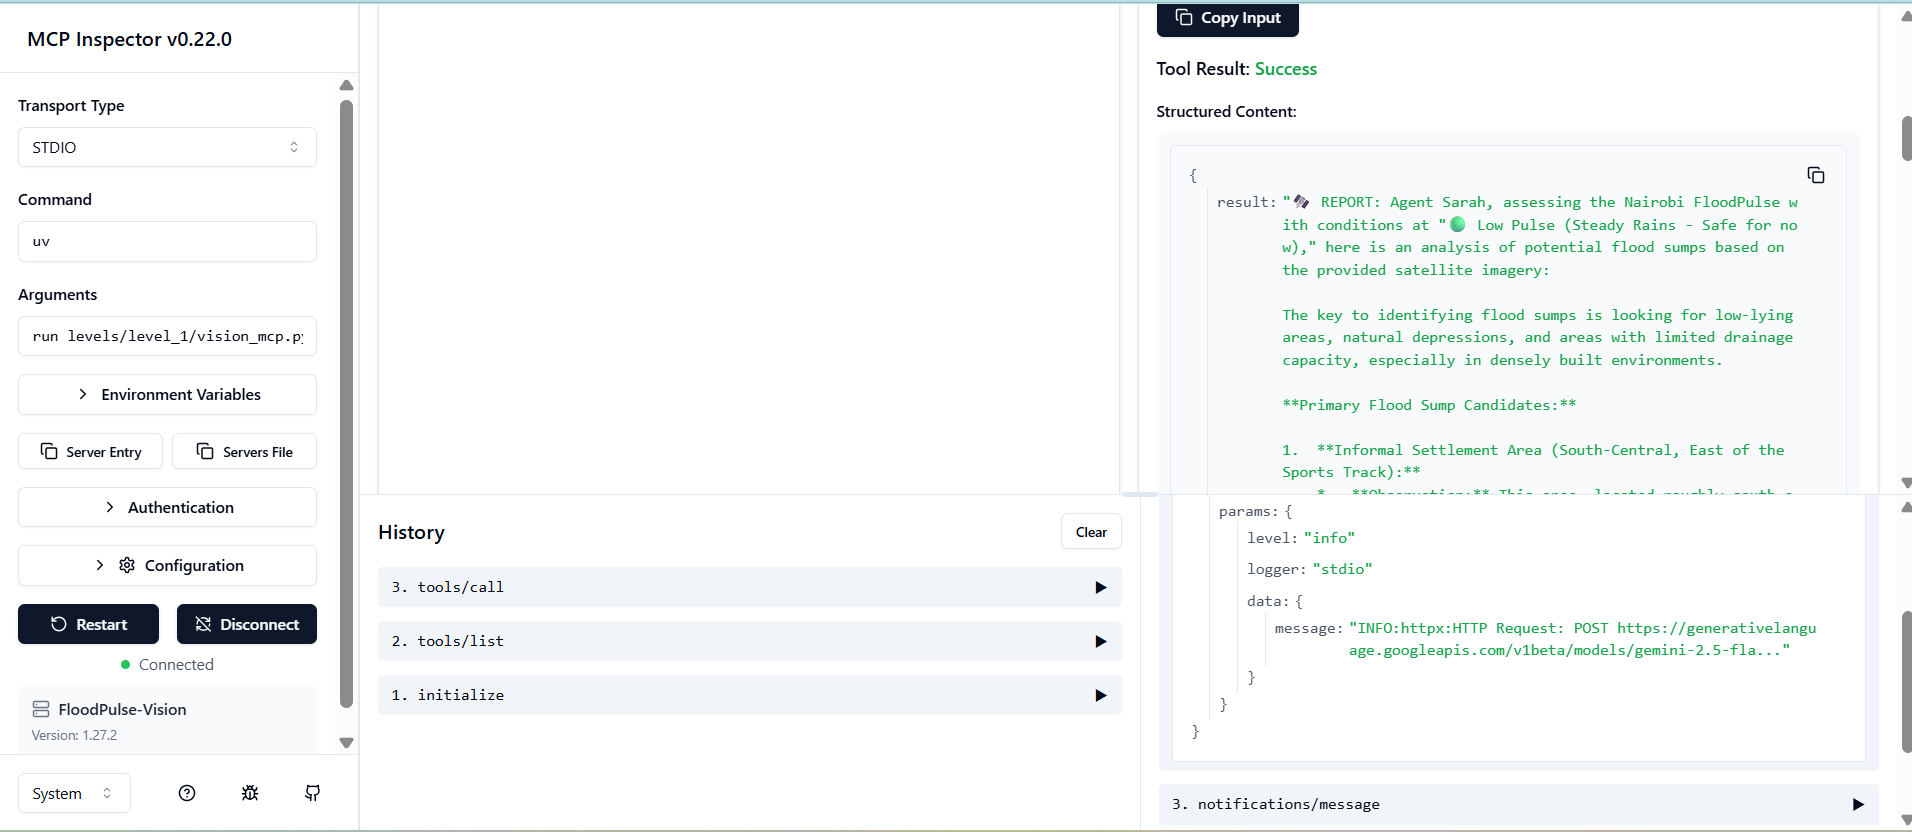
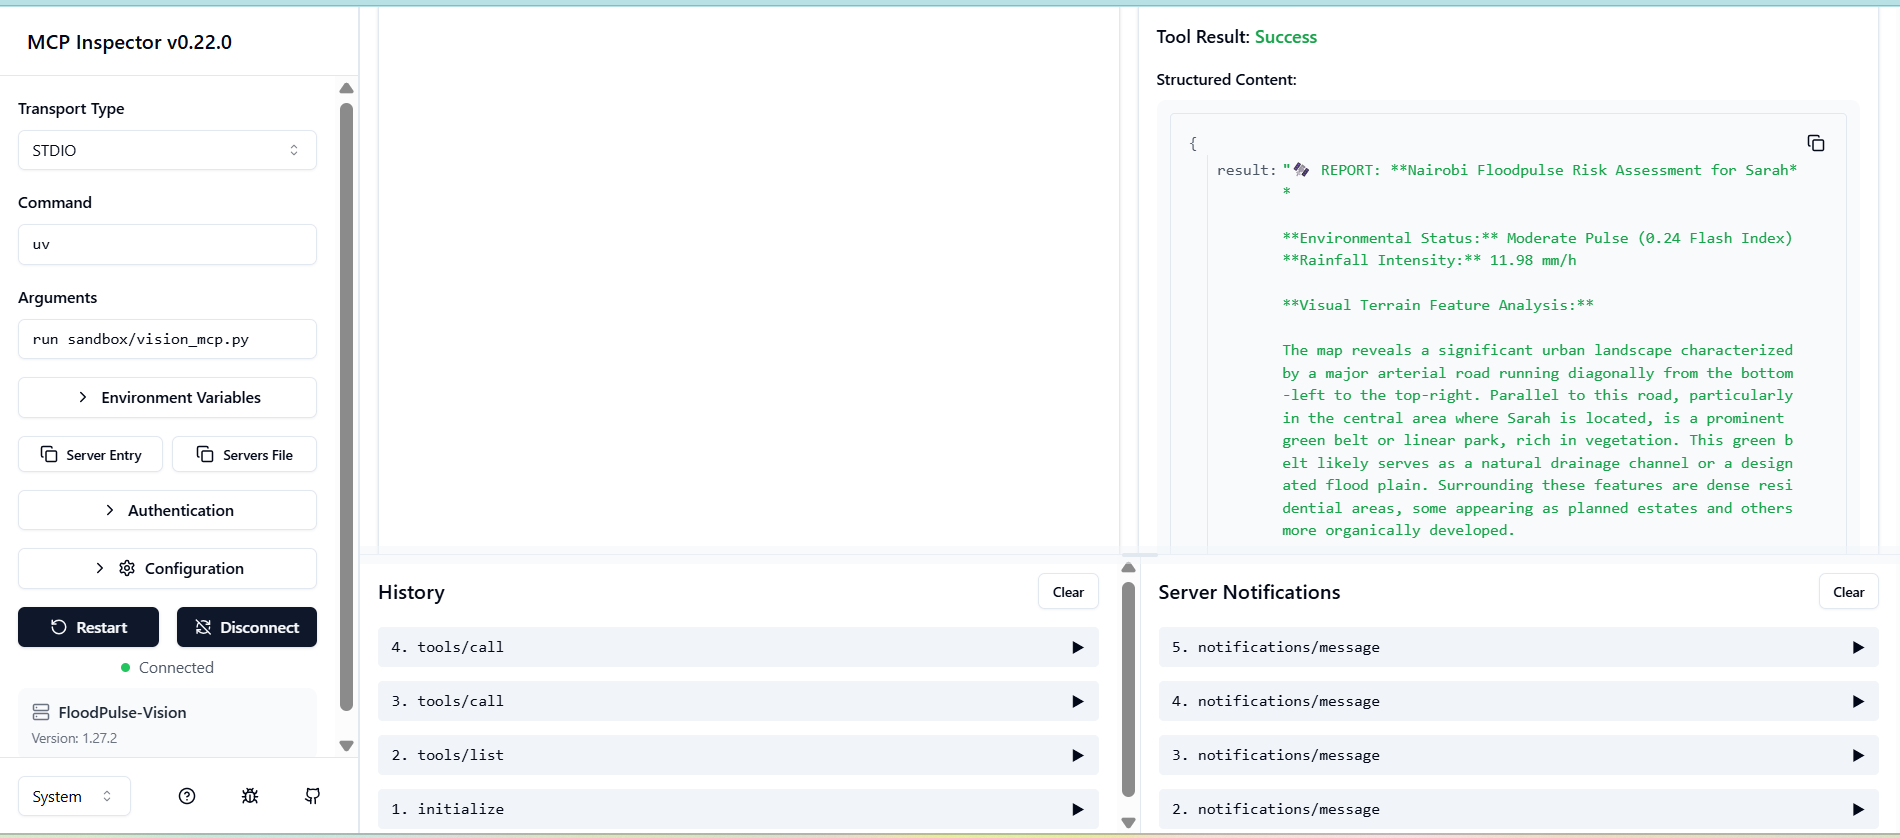
feat(sandbox): unify MCP vision auditor and finalize documentation

diff --git a/sandbox/vision_mcp.py b/sandbox/vision_mcp.py
@@ -1,24 +1,28 @@
 import os
 import sys
 import logging
+from pathlib import Path
 from mcp.server.fastmcp import FastMCP
 from google import genai
 from PIL import Image
 from dotenv import load_dotenv
 
+# --- PATH SHIELD & SYSTEM PATH SETUP ---
+# Identify the project root based on this file's location (sandbox/vision_mcp.py)
+# Moving up one level from sandbox/ to the project root
+SCRIPT_DIR = Path(__file__).resolve().parent
+PROJECT_ROOT = SCRIPT_DIR.parent
+
+# Ensure project root is at the very beginning of sys.path
+if str(PROJECT_ROOT) not in sys.path:
+    sys.path.insert(0, str(PROJECT_ROOT))
+
 # --- LOGGING SETUP ---
 logging.basicConfig(level=logging.INFO, stream=sys.stderr)
 logger = logging.getLogger("FloodPulse-Vision")
 
-## --- PATH SHIELD ---
-# Get the directory of this file (sandbox/)
-script_dir = os.path.dirname(os.path.abspath(__file__))
-# Move up ONE level to get to the project root
-PROJECT_ROOT = os.path.dirname(script_dir)
-sys.path.append(PROJECT_ROOT)
-
 # --- ENVIRONMENT LOADING ---
-dotenv_path = os.path.join(PROJECT_ROOT, ".env")
+dotenv_path = PROJECT_ROOT / ".env"
 load_dotenv(dotenv_path=dotenv_path, override=True)
 
 # --- CLIENT INITIALIZATION ---
@@ -30,27 +34,41 @@ if not api_key:
 mcp = FastMCP("FloodPulse-Vision")
 client = genai.Client(api_key=api_key)
 
+# --- TOOLS ---
 @mcp.tool()
 def analyze_mbagathi_risk(agent_name: str, lat: float, lon: float) -> str:
     """Fuses Terrain Map and Pulse Data to analyze flood risk."""
     
-    # Adjusted to look in the correct levels folder structure
-    map_path = os.path.join(PROJECT_ROOT, "levels", "level_1", "assets", "maps", f"{agent_name}_mission_map.png")
+    # Path to the asset - now resolved via PROJECT_ROOT
+    map_path = PROJECT_ROOT / "levels" / "level_1" / "assets" / "maps" / f"{agent_name}_mission_map.png"
 
-    if not os.path.exists(map_path):
+    if not map_path.exists():
         logger.error(f"Missing map file: {map_path}")
         return "Error: Mission map not found."
 
     try:
-        # UPDATED: Import from tools.weather_tools
-        from tools.weather_tools import get_nairobi_pulse
-        pulse = get_nairobi_pulse(agent_name, lat, lon)
+        # Absolute import now works because PROJECT_ROOT is in sys.path
+        from levels.level_1.tools.weather_tools import get_nairobi_pulse_tool
         
+        pulse = get_nairobi_pulse_tool(agent_name, lat, lon)
+        
+        # Check if the tool returned an error first
+        if "error" in pulse:
+            return f"Telemetry Unavailable: {pulse['error']}"
+                
         img = Image.open(map_path)
         
+        # Constructing the high-fidelity risk assessment prompt
         prompt_text = (
-            f"Nairobi FloodPulse. Agent: {agent_name}. Conditions: {pulse['status']}. "
-            "Analyze the terrain for potential flood sumps based on this map."
+            f"--- NAIROBI FLOODPULSE RISK ASSESSMENT ---\n"
+            f"Target Agent: {agent_name}\n"
+            f"Environmental Status: {pulse['status']} ({pulse['flash_index']} Flash Index)\n"
+            f"Rainfall Intensity: {pulse['rain_mm_h']} mm/h\n"
+            f"Task: Analyze the visual terrain features of this map to identify "
+            f"vulnerable sumps and high-risk bottlenecks. Given the current "
+            f"{pulse['status']}, evaluate the likelihood of immediate arterial "
+            f"flooding at these coordinates. Provide a 'Safety Rating' (0-100) and "
+            f"a list of recommended high-ground evacuation routes visible in the map."
         )
 
         response = client.models.generate_content(
@@ -60,6 +78,9 @@ def analyze_mbagathi_risk(agent_name: str, lat: float, lon: float) -> str:
         
         return f"🛰 REPORT: {response.text}"
 
+    except ImportError as ie:
+        logger.exception("Failed to import tool modules")
+        return f"Import Error: {str(ie)}"
     except Exception as e:
         logger.exception("Fusion process failed")
         return f"Internal Fusion Error: {str(e)}"

diff --git a/docs/PRD.md b/docs/PRD.md
@@ -7,22 +7,22 @@ Existing navigation tools in Nairobi rely on static road data and active interne
 ## 2. Goals & Objectives
 - **Goal:** Reduce transit-related flood fatalities by 50% in pilot areas.
 - **Objective:** Deploy a multimodal agentic pipeline capable of identifying flood boundaries and safe transit paths.
-- **Strategic Metric:** Maintain high-fidelity spatial reasoning via Gemini 2.5/3.5 and orchestrate reliable navigation directives through modular, ADK-driven sequential agentic pipelines.
+- **Strategic Metric:** Maintain high-fidelity spatial reasoning via `Gemini 2.5/3.5` and orchestrate reliable navigation directives through modular, ADK-driven sequential agentic pipelines.
 
 ## 3. System Architecture
 FloodPulse utilizes a Modular Agentic Simulation pattern, evolving from static identity creation (Level 0) into a real-time Production Studio (Level 1) for agentic assets.
 
 - **Level 0 (The Gallery):** A persistent registry for personas (Sarah, Juma, Kamau) and finalized mission assets.
-- **The Sandbox (Lab/Validation):** An isolated, ephemeral environment used for Model Context Protocol (MCP) tool-calling validation, ADC-based authentication testing, and diagnostic reporting.
 - **Level 1 (The Studio):** The core Agentic Synthesis engine. It uses the **Google Agent Development Kit (ADK)** to orchestrate specialized sub-agents (Vision Analyst, Weather Gatherer) through a sequential delegation loop, ensuring atomic state management and session-scoped reliability. The core engine utilizes an Agentic Resilience Layer (`utils.py` and `genai_retry` logic) to manage API fluctuations and quota constraints. State is managed through an explicit **Context-Setter Pattern**, requiring the Orchestrator to validate and persist mission parameters before task delegation.
+- **The Sandbox (Lab/Validation):** An isolated, ephemeral environment used for Model Context Protocol (MCP) tool-calling validation, ADC-based authentication testing, and diagnostic reporting.
 - **Level 2 Graph Orchestration:** Google Cloud Spanner backbone for persistent node-based navigation.
 
 ### 3.1 Evolutionary Roadmap
 | Phase | Milestone | Status |
 |-------------|--------|--------------|
 | **Level 0** | Identity Factory: Parametric persona generation| ✅ Done |
-| **Sandbox** | MCP Lab: Secure Vision/Tool Diagnostics | ✅ Done |
 | **Level 1** | The Studio: ADK Sequential Agentic Synthesis | ✅ Done |
+| **Sandbox** | MCP Lab: Secure Vision/Tool Diagnostics | ✅ Done |
 | **Level 2** | Graph Orchestration: Spanner/GQL Navigation | 🟡 Ongoing |
 | **Edge** | Android 17 Parity: Local Gemma 4 inference | 🔜 Planned |
 
@@ -32,25 +32,26 @@ FloodPulse utilizes a Modular Agentic Simulation pattern, evolving from static i
 - Logic: Implemented `create_identity.py` and `generator.py` using an Orchestrator/Worker pattern.
 - Output: Consistent visual assets stored in `level_0/outputs/.`
 
-### 4.2 The Sandbox (Completed)
-- **Purpose:** To serve as a hardened proving ground for all Tool/Agent interactions.
-- **FR1 (Protocol Verification):** All new spatial reasoning tools must be validated against the MCP Inspector at port 6274 before being merged into the Studio.
-- **FR2 (Authentication Hardening):** Ensures all production-path tools are compatible with **Application Default Credentials (ADC)**, providing a secure alternative to legacy API key management.
-- **FR3 (Artifact Logging):** Every successful diagnostic session must generate a documentation record in `sandbox/notes.md.` to maintain a historical "truth" of tool performance.
-- **FR4 (Path Shielding):** Implementation of dynamic `PROJECT_ROOT` resolution in all sandbox scripts to prevent file-system corruption or duplicate directory nesting (`levels/levels/...`).
 
-### 4.3 Level 1: The Studio (Completed)
-- **FR5 (Sequential Orchestration):** The `FloodPulseStudio` uses `SequentialAgent` logic to map user intent to a precise, context-aware execution flow.
-- **FR6 (Telemetry-Aware Synthesis):** The orchestrator pulls real-time environmental telemetry (Weather) and terrain data (Vision) to generate a unified mission risk assessment.
-- **FR7 (Artifact Promotion):** Automated pipeline moves validated assets from /level_0/outputs to the public /level_1/assets registry.
-- **FR8 (Memory Injection):** Contextual injection of persona metadata (Level 0) into `callback_context` to ensure agents are "Persona-Aware."
-- **FR9 (Interaction):** Interactive discovery phase where the root agent greets the user and determines mission parameters before synthesizing assets.
-- **FR10 (Idempotency):** The ADK `InMemorySessionService` tracks invocation_ids to ensure atomic tool execution and cost-efficient API usage.
-- **FR11 (Resilience Integration):** All external tool calls are wrapped in `http/gen_ai_retry` (exponential backoff with jitter) to mitigate `429 RESOURCE_EXHAUSTED` and `503 UNAVAILABLE errors`.
-- **FR12 (Context-Setter Gatekeeper):** The Orchestrator forces an `update_mission_context` execution for every session, transforming raw user input into a persistent `session.state` that fuels downstream domain sub-agents.
-- **FR13 (Root-Level Utility Infrastructure):** Migration of shared utility logic to the root `/utils.py` module to ensure consistent package namespace resolution and eliminate `ImportError` regressions.
+### 4.2 Level 1: The Studio (Completed)
+- **FR1 (Sequential Orchestration):** The `FloodPulseStudio` uses `SequentialAgent` logic to map user intent to a precise, context-aware execution flow.
+- **FR2 (Telemetry-Aware Synthesis):** The orchestrator pulls real-time environmental telemetry (Weather) and terrain data (Vision) to generate a unified mission risk assessment.
+- **FR3 (Artifact Promotion):** Automated pipeline moves validated assets from /level_0/outputs to the public `/level_1/assets` registry.
+- **FR4 (Memory Injection):** Contextual injection of persona metadata (Level 0) into `callback_context` to ensure agents are "Persona-Aware."
+- **FR5 (Interaction):** Interactive discovery phase where the root agent greets the user and determines mission parameters before synthesizing assets.
+- **FR6 (Idempotency):** The ADK `InMemorySessionService` tracks invocation_ids to ensure atomic tool execution and cost-efficient API usage.
+- **FR7 (Resilience Integration):** All external tool calls are wrapped in `http/gen_ai_retry` (exponential backoff with jitter) to mitigate `429 RESOURCE_EXHAUSTED` and `503 UNAVAILABLE errors`.
+- **FR8 (Context-Setter Gatekeeper):** The Orchestrator forces an `update_mission_context` execution for every session, transforming raw user input into a persistent `session.state` that fuels downstream domain sub-agents.
+- **FR9 (Root-Level Utility Infrastructure):** Migration of shared utility logic to the root `/utils.py` module to ensure consistent package namespace resolution and eliminate `ImportError` regressions.
 
-### 4.3 Graph Orchestration (Ongoing)
+### 4.3 The Sandbox (Completed)
+- **Purpose:** To serve as an independent validation layer for post-mission audit and high-fidelity quality control.
+- **FR10 (Audit Verification):** The Sandbox acts as an independent auditor; tools must be verified to function within the post-execution pipeline, validating assets generated by Level 1 (Studio) against mission baselines.
+- **FR11 (Dual-Mode Authentication):** All tools must support both **Application Default Credentials (ADC)** for enterprise-grade production and **API Keys** for rapid local prototyping, toggled via `.env` configurations.
+- **FR12 (Diagnostic Integrity):** Every audit session must document findings in `sandbox/notes.md` to maintain a historical "truth" of mission performance and tool reliability.
+- **FR13 (Path Resilience):** Implementation of hierarchical `PROJECT_ROOT` resolution to ensure absolute path consistency across all diagnostic and production modules, preventing cross-environment directory corruption.
+
+### 4.4 Graph Orchestration (Ongoing)
 - **FR14: Persistent State:** The system utilizes **Google Cloud Spanner** (Instance: survivor-network) to store the Trinity (Sarah, Juma, Kamau) as living graph nodes. (✅ Implemented via `spanner_init.py`)
 - **FR15: Relational Intelligence:** Implemented `FloodResilienceGraph` with ConnectedTo edges to map emergency lifelines between residents and responders. (✅ Implemented)
 - **FR16: Data Integrity:** System supports Idempotent Initialization and "Smart Repair" logic to ensure infrastructure stability in unstable connectivity environments. (✅ Implemented)
@@ -58,19 +59,19 @@ FloodPulse utilizes a Modular Agentic Simulation pattern, evolving from static i
 
 ## 5. Non-Functional Requirements (NFR)
 - **Latency:** Inference for terrain risk analysis must be < 2 seconds.
-- **Sandbox Isolation:** The Sandbox environment must remain ephemeral; no persistent registry or database writes should occur within the sandbox during diagnostic runs.
-- **Pipe Integrity:** Background telemetry redirected to `stderr` to preserve MCP JSON-RPC stream integrity.
-- **Diagnostic Transparency:** All tool-calling errors in the sandbox must be captured as logs and, where possible, visual artifacts (screenshots/maps) for PRD compliance.
 - **Credit Awareness:** All LLM calls gated by idempotent checks to minimize API spend.
 - **State Management:** ADK-based session management maintains context
 - **Quota Awareness:** The system must implement "Cache-Before-Call" logic for all geospatial assets, checking local `/assets/` directories for existing files before invoking remote API endpoints to conserve the 20-request/day free-tier quota.
+- **Sandbox Isolation:** The Sandbox environment must remain ephemeral; no persistent registry or database writes should occur within the sandbox during diagnostic runs.
+- **Pipe Integrity:** Background telemetry redirected to `stderr` to preserve MCP JSON-RPC stream integrity.
+- **Diagnostic Transparency:** All tool-calling errors in the sandbox must be captured as logs and, where possible, visual artifacts (screenshots/maps) for PRD compliance.
 - **Edge Readiness:** Architecture maintains modularity to support future porting to Android 17 on-device AppFunctions using Gemma 4
 - **Model Portability:** All Agentic Logic must be abstracted from the model backend to allow seamless switching between `Gemini-2.5-Flash` (Cloud) and `Gemma-4` (On-Device) via the `google-genai` interface.
 
 ## 6. Technical Validation: "The Mbagathi Truth"
 - **Baseline:** Validated spatial reasoning for topographical analysis (`Gemma 4 (31B)` , `Gemini-2.5-Flash`, `Gemini-3.5-Flash`).
-- **MCP Diagnostics:** Validated tool-calling reliability via the MCP Inspector, ensuring our agents can "see" map assets locally even when cloud-disconnected.
 - **Safe Ridge Logic:** The model autonomously identifies high-ground zones based on spectral terrain analysis (elevation vs. drainage).
+- **MCP Diagnostics:** Validated tool-calling reliability via the MCP Inspector, ensuring our agents can "see" map assets locally even when cloud-disconnected.
 - **Graph Verification:** Confirmed directed pathing from Sarah (Resident) at high-risk sump coordinates to Juma (Responder).
 
 Note: The system architecture visualization is now tracked below ![FloodPulse Studio Workflow](./level_1_workflow_viz.png)

diff --git a/README.md b/README.md
@@ -11,8 +11,8 @@
 
 We have transitioned from a multi-level sequential model to a unified Agentic Studio architecture.
 - **The Gallery (Level 0):** A persistent registry for personas (Sarah, Juma, Kamau) and finalized mission assets.
-- **The Sandbox:** Our experimental laboratory. This is where we stress-test new MCP tool-calling logic and authenticate secure connections via Application Default Credentials (ADC) before they graduate to the Studio.
 - **The Studio (Level 1 ):** The core Agentic Synthesis engine. It utilizes the **Google Agent Development Kit (ADK)** to orchestrate specialized sub-agents (Weather Gatherer, Vision Analyst) through a sequential delegation loop, ensuring atomic state management and session-scoped reliability.
+- **The Sandbox:** Our experimental laboratory and post-mission verification suite. This is where we stress-test new MCP tool-calling logic and authenticate secure connections via **Application Default Credentials (ADC)** or **API keys**. Once the Level 1 Studio establishes a mission baseline, the Sandbox tools perform independent Post-Mission Verification to ensure rigorous auditability and quality control before data is finalized.
 - **Graph Orchestration (Level 2)**: Google Cloud Spanner backbone for persistent node-based navigation.
 
 ### Visualizing the Workflow:
@@ -45,13 +45,13 @@ floodpulse-nairobi/
 | Phase | Milestone | Status |
 |-------------|--------|--------------|
 | **Level 0** | Identity Factory: Parametric persona generation| ✅ Done |
-| **Sandbox** | MCP Lab: Secure Vision/Tool Diagnostics | ✅ Done | 
 | **Level 1** | The Studio: Agentic Synthesis & Telemetry Integration | ✅ Done |
+| **Sandbox** | MCP Lab: Secure Vision/Tool Diagnostics | ✅ Done | 
 | **Level 2** | Graph Orchestration: Spanner/GQL Navigation | 🟡 Ongoing |
 | **Edge** | Android 17 Parity: Local Gemma 4 inference | 🔜 Planned |
 ---
 ## 🛡 Resilience & State Protocol
-- **Resilience Layer (`utils.p`y):** We use `@http/genai_retry` decorators across all API-bound tools (Maps, Weather, GenAI). They utilizes exponential backoff with jitter to gracefully recover from `429 (Resource Exhausted)` and `503 (Unavailable) errors`.
+- **Resilience Layer (`utils.py`):** We use `@http/genai_retry` decorators across all API-bound tools (Maps, Weather, GenAI). They utilizes exponential backoff with jitter to gracefully recover from `429 (Resource Exhausted)` and `503 (Unavailable) errors`.
 - **Context-Setter Pattern:** The Director agent uses the `update_mission_context` tool to persist mission parameters (Name, Lat, Lon) into `tool_context.session.state`. This ensures that downstream agents have reliable access to validated mission data.
 -**Asset Caching:** To preserve daily API quotas, all map and terrain assets are checked against the local `/assets/` directory before triggering remote API calls.
 ---
@@ -70,17 +70,20 @@ USE_VERTEX_AI=true
 PROJECT_ID=your-project-id
 LOCATION=us-central1
 ```
-3. **Authentication Protocol**
+3. **Authentication & Execution Modes**
 
-The system supports two execution modes via `config.py`:
+The system supports two execution modes via your `.env` configuration:
+
 - **Sandbox Mode (`USE_VERTEX_AI=false`):** Uses standard API keys. Ideal for rapid iteration, testing, and debugging.
 - **Studio Production Mode (`USE_VERTEX_AI=true`):** Uses **Application Default Credentials (ADC)**. This leverages your project's IAM identity for secure, enterprise-grade access.
-  - **Note:** Ensure you have authenticated locally via `gcloud auth application-default login` before running in Studio mode.
+  - *Requirement:* Ensure you have authenticated locally via `gcloud auth application-default login` before running in Studio mode.
     
 4. **Run Missions:** Execute from the root directory using the module flag:
 ```
 uv run python -m levels.level_1.agent
-adk web levels/level_1 
+adk web levels/level_1
+adk web --allow_origins "regex:https://.*\.cloudshell\.dev"
+PYTHONPATH=. adk web levels/level_1 --allow_origins "regex:https://.*\.cloudshell\.dev"
 ```
 ---
 ## 🎯 Technical Validation: "The Mbagathi Truth"

diff --git a/sandbox/README.md b/sandbox/README.md
@@ -7,26 +7,27 @@ This directory serves as the **experimental workspace** for the FloodPulse proje
 - **Lab Logging:** Documenting lessons learned, architecture discoveries, and troubleshooting notes.
 
 ## 📂 Contents
-- `adc_vision_mcp.py:` Production-aligned MCP server using Google Cloud Application Default Credentials (ADC).
-- `vision_mcp.py:` Experimental MCP server using standard API keys, ideal for rapid prototyping and bypassing project-specific model quotas.
+- `vision_mcp.py:` A unified MCP server that detects authentication mode via `.env` (`USE_VERTEX_AI=true/false`). Supports both rapid prototyping (API Key) and production-aligned (ADC) testing.
 - `notes.md:` A comprehensive lab log detailing experiment results, authentication struggles, port configurations (6274), and model availability findings.
 
 ## 🚀 Getting Started
 To interact with these tools, use the MCP Inspector:
+1. **Ensure your environment is set:**
+   Set `USE_VERTEX_AI=true` in your `.env` to use ADC, or `false` to use your API key.
 
-1. Install the Inspector:
+2. Install the Inspector:
 ```
 Bash
 npm install -g @modelcontextprotocol/inspector
 ```
-2. Launch a test rig:
+3. **Launch the test rig:**
+ ```bash
+ # Use PYTHONPATH to ensure the project modules are resolvable
+ PYTHONPATH=. npx @modelcontextprotocol/inspector uv run sandbox/vision_mcp.py
 ```
-Bash
-# Replace the file name with the rig you want to test
-npx @modelcontextprotocol/inspector uv run sandbox/adc_vision_mcp.py
-```
-3. Verify: Open the local dashboard at `http://localhost:6274` to execute tools and review responses.
+4. Verify: Open the local dashboard at `http://localhost:6274` to execute tools and review responses.
 
 ## 🛠 Operational Notes
-- **Path Resolution:** These scripts use dynamic pathing to locate the `PROJECT_ROOT.` Ensure your `config.json` is present in the root of the project for ADC scripts to function correctly.
+- **Authentication Logic:** The server automatically switches between Vertex AI (ADC) and API Key based on your `.env` configuration. Ensure `gcloud auth application-default login` is run locally if using ADC mode.
+- **Path Resolution:** These scripts use dynamic pathing to locate the `PROJECT_ROOT.` Ensure you are executing from the project root to maintain correct module resolution.
 - **Environment:** All successful tests recorded in `notes.md` were performed in a local VS Code environment. Remote cloud development environments (like Cloud Shell) may face tunneling restrictions with the Inspector.

diff --git a/sandbox/notes.md b/sandbox/notes.md
@@ -19,15 +19,14 @@ MCP is the bridge that transforms static environmental data into Actionable Inte
 ```
 
 ## 3. Authentication & Access Strategy
-We maintain two distinct paths for MCP experimentation to balance security with development flexibility. 
-	
+We have unified our MCP servers into a single `vision_mcp.py` file, utilizing a `.env` toggle (`USE_VERTEX_AI=true/false`) to switch between rapid-iteration and production-grade authentication.
 
-| Feature | Legacy API Key | Application Default Credentials (ADC) - Cloud |
+| Feature | API Key Mode | ADC Mode - Vertex AI |
 |-------------|--------|--------------|
-| **Primary Use** | Prototyping & Paid-tier access| Enterprise-grade production |
-| **Model Access** | Full access (including 3.5-Flash) | Restricted to project-level quota |
-| **Security** | Sensitive .env management | Secure, time-bound tokens |
-| **Environment** | Best for local quick-testing | Best for robust cloud integration |
+| **Primary Use** | Rapid Prototyping | Production/Studio Deployment |
+| **Authentication** | Direct `GOOGLE_API_KEY` | Managed via `gcloud` identity |
+| **Quota** | Account-level limits | Project-level (IAM) quotas |
+| **Best For** | Bypassing IAM bottlenecks | Secure enterprise integration |
 
 ### Performance Insights: The "Hanging" Latency
 - **Secure Tunneling:** Requests are routed through GCP infrastructure for permission validation.
@@ -38,7 +37,7 @@ We maintain two distinct paths for MCP experimentation to balance security with 
 - Model Availability:
 - **Gemini 3.5-Flash:** Currently restricted in our Google Cloud ADC environment.
 - **Gemini 2.5-Flash:** Used as the stable baseline for all MCP spatial reasoning tasks within the current production pipeline.
-- **Config Logic:** `config.json` is anchored to the `PROJECT_ROOT` to ensure consistent pathing regardless of the execution directory.
+- **Configuration:** The project now utilizes a hierarchical path resolution that allows the `vision_mcp` script to operate as a post-execution auditor; in this architecture, Level 1 establishes the Mission Baseline, while the Vision MCP performs independent Post-Mission Verification to ensure rigorous quality control.
 
 ## 🛠 Inspector Deployment Note
 - **Observed Limitation:** The MCP Inspector struggles to maintain stable connections when launched within a remote cloud development environment (like Cloud Shell) due to network tunneling restrictions.
